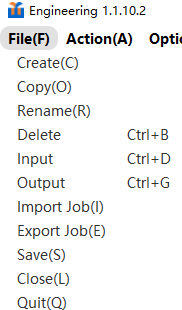
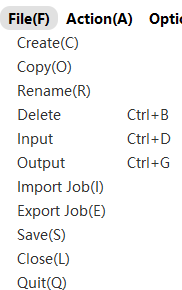
2023120701 gcc add 5 case

Changed region(s): [[0.0, 0.0, 0.7967, 1.0], [0.6868, 0.3724, 0.9615, 0.6207], [0.8242, 0.031, 1.0, 0.1552]]

diff --git a/test_dir/test_engineering.py b/test_dir/test_engineering.py
@@ -18,6 +18,7 @@ from config_ep.page.page_graphic import PageGraphic
 from config_ep.page.page_tool_size_edit import PageToolSizeEdit
 from config_ep.page.page_dcode_edit import PageDcodeEdit
 from config_ep.page.page_input_view_ascii import PageInputViewAscii
+from config_ep.page.page_engineering_file import PageFile
 
 
 @pytest.mark.input
@@ -25,6 +26,7 @@ class TestUI:
     @pytest.fixture(autouse=True)
     def setup_method(self):
         self.engineering = PageEngineering()
+        self.file = PageFile()
         self.engineering.engineering_window.set_focus()  # 激活窗口
 
     def test_ui_all(self, epcam_ui_start):
@@ -95,7 +97,7 @@ class TestUI:
         engineering_file_menu_pic = self.engineering.engineering_window.capture_as_image()  # 截图
         engineering_file_menu_pic.save(r'C:\cc\share\temp\engineering_file_menu_pic.png')  # 保存到硬盘
         img = cv2.imread(r'C:\cc\share\temp\engineering_file_menu_pic.png')
-        img_cut = img[5:315, 8:190]  # 后面的是水平方向
+        img_cut = img[25:315, 8:190]  # 后面的是水平方向
         cv2.imwrite(r"C:\cc\share\temp\engineering_file_menu_pic_cut.png", img_cut)
         cv2.waitKey(0)
         # 加载两张图片
@@ -106,14 +108,13 @@ class TestUI:
         assert rectangle_count == 0
         self.engineering.job_list_click_empty()  # 鼠标点击空白处，不影响下一个用例
 
-    def test_open_close_create_window(self, epcam_ui_start):  # 验证打开、关闭Create弹窗
-        self.engineering.engineering_window.click_input(coords=page.engineering_file_coord)  # 单击打开File菜单
-        self.engineering.engineering_window.click_input(coords=page.engineering_file_create_coord)  # 单击打开Create窗口
+    def test_open_close_create_window(self, epcam_ui_start):
+        self.file.open_create_window()
         time.sleep(0.2)
         engineering_file_create_window_pic = self.engineering.engineering_window.capture_as_image()  # 截图
         engineering_file_create_window_pic.save(r'C:\cc\share\temp\engineering_file_create_window_pic.png')  # 保存到硬盘
         img = cv2.imread(r'C:\cc\share\temp\engineering_file_create_window_pic.png')
-        img_cut = img[50:780, 380:455]  # 前纵后横
+        img_cut = img[50:780, 380:455]  # 前面纵向，后面横向
         cv2.imwrite(r"C:\cc\share\temp\engineering_file_create_window_pic_cut.png", img_cut)
         cv2.waitKey(0)
         # 加载两张图片
@@ -122,7 +123,116 @@ class TestUI:
         img_current_path = r'C:\cc\share\temp\engineering_file_create_window_pic_cut.png'
         rectangle_count = opencv_compare(img_standard_path, img_current_path)
         assert rectangle_count == 0
-        self.engineering.engineering_window.click_input(coords=page.engineering_file_create_close_coord)  # 关闭窗口
+        self.file.close_create_window('x')
+        assert self.file.create_window_is_closed()
+
+    def test_create_entity_input(self, epcam_ui_start):
+        self.file.open_create_window()
+        self.file.clear_entity_name()
+        self.file.entity_name_input()
+        engineering_file_create_entity_pic = self.engineering.engineering_window.capture_as_image()  # 截图
+        engineering_file_create_entity_pic.save(r'C:\cc\share\temp\engineering_file_create_entity_pic.png')  # 保存到硬盘
+        img = cv2.imread(r'C:\cc\share\temp\engineering_file_create_entity_pic.png')
+        img_cut = img[50:780, 460:666]  # 前面纵向，后面横向
+        cv2.imwrite(r"C:\cc\share\temp\engineering_file_create_entity_pic_cut.png", img_cut)
+        cv2.waitKey(0)
+        # 加载两张图片
+        img_standard_path = os.path.join(RunConfig.epcam_ui_standard_pic_base_path,
+                                         r'engineering\engineering_file_create_entity_pic_cut_standard.png')  # 要改图片
+        img_current_path = r'C:\cc\share\temp\engineering_file_create_entity_pic_cut.png'
+        rectangle_count = opencv_compare(img_standard_path, img_current_path)
+        assert rectangle_count == 0
+        self.file.close_create_window('x')
+
+    def test_create_entity_illegal_input(self, epcam_ui_start):
+        self.file.open_create_window()
+        self.file.clear_entity_name()
+        self.file.entity_name_illegal_input()
+        engineering_file_create_entity_illegal_pic = self.engineering.engineering_window.capture_as_image()  # 截图
+        engineering_file_create_entity_illegal_pic.save(
+            r'C:\cc\share\temp\engineering_file_create_entity_illegal_pic.png')  # 保存到硬盘
+        img = cv2.imread(r'C:\cc\share\temp\engineering_file_create_entity_illegal_pic.png')
+        img_cut = img[50:780, 460:666]  # 前面纵向，后面横向
+        cv2.imwrite(r"C:\cc\share\temp\engineering_file_create_entity_illegal_pic_cut.png", img_cut)
+        cv2.waitKey(0)
+        # 加载两张图片
+        img_standard_path = os.path.join(RunConfig.epcam_ui_standard_pic_base_path,
+                                         r'engineering\engineering_file_create_entity_illegal_pic_cut_standard.png')
+        img_current_path = r'C:\cc\share\temp\engineering_file_create_entity_illegal_pic_cut.png'
+        rectangle_count = opencv_compare(img_standard_path, img_current_path)
+        assert rectangle_count == 0
+        self.file.close_create_window('x')
+
+    def test_create_database_reset(self, epcam_ui_start):
+        self.file.open_create_window()
+        self.file.clear_entity_name()
+        self.file.database_reset()
+        engineering_file_create_database_pic = self.engineering.engineering_window.capture_as_image()  # 截图
+        engineering_file_create_database_pic.save(
+            r'C:\cc\share\temp\engineering_file_create_database_pic.png')  # 保存到硬盘
+        img = cv2.imread(r'C:\cc\share\temp\engineering_file_create_database_pic.png')
+        img_cut = img[50:780, 460:666]  # 前面纵向，后面横向
+        cv2.imwrite(r"C:\cc\share\temp\engineering_file_create_database_pic_cut.png", img_cut)
+        cv2.waitKey(0)
+        # 加载两张图片
+        img_standard_path = os.path.join(RunConfig.epcam_ui_standard_pic_base_path,
+                                         r'engineering\engineering_file_create_database_pic_cut_standard.png')
+        img_current_path = r'C:\cc\share\temp\engineering_file_create_database_pic_cut.png'
+        rectangle_count = opencv_compare(img_standard_path, img_current_path)
+        assert rectangle_count == 0
+        self.file.close_create_window('x')
+
+    def test_create_new_job_ok(self, epcam_ui_start):
+        self.engineering.entity_filter('760')
+        if self.engineering.job_first_is_opened():
+            self.engineering.close_job_first()
+        self.engineering.delete_all_jobs()
+        self.file.open_create_window()
+        self.file.clear_entity_name()
+        self.file.create_job('760', 'ok')
+        engineering_file_create_new_job_ok_pic = self.engineering.engineering_window.capture_as_image()  # 截图
+        engineering_file_create_new_job_ok_pic.save(
+            r'C:\cc\share\temp\engineering_file_create_new_job_ok_pic.png')  # 保存到硬盘
+        img = cv2.imread(r'C:\cc\share\temp\engineering_file_create_new_job_ok_pic.png')
+        img_cut = img[88:780, 25:800]  # 前面纵向，后面横向
+        cv2.imwrite(r"C:\cc\share\temp\engineering_file_create_new_job_ok_pic_cut.png", img_cut)
+        cv2.waitKey(0)
+        # 加载两张图片
+        img_standard_path = os.path.join(RunConfig.epcam_ui_standard_pic_base_path,
+                                         r'engineering\engineering_file_create_new_job_ok_pic_cut_standard.png')
+        img_current_path = r'C:\cc\share\temp\engineering_file_create_new_job_ok_pic_cut.png'
+        rectangle_count = opencv_compare(img_standard_path, img_current_path)
+        assert rectangle_count == 0
+        self.file.close_create_window('close')
+
+    def test_create_new_job_apply(self, epcam_ui_start):
+        self.engineering.entity_filter('760')
+        if self.engineering.job_first_is_opened():
+            self.engineering.close_job_first()
+        self.engineering.delete_all_jobs()
+        self.file.open_create_window()
+        self.file.clear_entity_name()
+        self.file.create_job('760', 'apply')
+        engineering_file_create_new_job_apply_pic = self.engineering.engineering_window.capture_as_image()  # 截图
+        engineering_file_create_new_job_apply_pic.save(
+            r'C:\cc\share\temp\engineering_file_create_new_job_apply_pic.png')  # 保存到硬盘
+        img = cv2.imread(r'C:\cc\share\temp\engineering_file_create_new_job_apply_pic.png')
+        img_cut = img[88:780, 25:455]  # 前面纵向，后面横向
+        cv2.imwrite(r"C:\cc\share\temp\engineering_file_create_new_job_apply_pic_cut.png", img_cut)
+        cv2.waitKey(0)
+        # 加载两张图片
+        img_standard_path = os.path.join(RunConfig.epcam_ui_standard_pic_base_path,
+                                         r'engineering\engineering_file_create_new_job_apply_pic_cut_standard.png')
+        img_current_path = r'C:\cc\share\temp\engineering_file_create_new_job_apply_pic_cut.png'
+        rectangle_count = opencv_compare(img_standard_path, img_current_path)
+        assert rectangle_count == 0
+        self.file.close_create_window('close')
+
+    # def test_create_exists_job_ok(self, epcam_ui_start):
+    #     pass
+    #
+    # def test_create_exists_job_apply(self, epcam_ui_start):
+    #     pass
 
     @pytest.mark.parametrize("job_id", GetTestData.get_job_id('Save'))
     def test_open_job(self, job_id, epcam_ui_start, download_file_compressed_entity_filter_delete_all_jobs_import):

diff --git a/config_ep/page/page_engineering_file.py b/config_ep/page/page_engineering_file.py
@@ -1,0 +1,92 @@
+import os
+import cv2
+import time
+from config_ep import page
+from config import RunConfig
+from cc.cc_method import opencv_compare
+from pywinauto.keyboard import send_keys
+
+
+class PageFile(object):
+    def __init__(self):
+        super().__init__()  # 调用父类的构造函数
+        self.engineering_window = RunConfig.driver_epcam_ui.window(**page.engineering_window_para)
+
+    def open_create_window(self):
+        self.engineering_window.click_input(coords=page.engineering_file_coord)  # 单击打开File菜单
+        self.engineering_window.click_input(coords=page.engineering_file_create_coord)  # 单击打开Create窗口
+
+    def close_create_window(self, button):
+        if button == 'x':
+            self.engineering_window.click_input(coords=page.engineering_file_create_x_coord)  # 右上角X关闭窗口
+        elif button == 'close':
+            self.engineering_window.click_input(coords=page.engineering_file_create_close_coord)  # close按钮关闭
+
+    def create_window_is_closed(self):
+        engineering_file_create_entity_pic = self.engineering_window.capture_as_image()  # 截图
+        engineering_file_create_entity_pic.save(r'C:\cc\share\temp\create_window_is_closed_pic.png')  # 保存到硬盘
+        img = cv2.imread(r'C:\cc\share\temp\create_window_is_closed_pic.png')
+        img_cut = img[55:780, 200:810]  # 前面纵向，后面横向
+        cv2.imwrite(r"C:\cc\share\temp\create_window_is_closed_pic_cut.png", img_cut)
+        cv2.waitKey(0)
+        # 加载两张图片
+        img_standard_path = os.path.join(RunConfig.epcam_ui_standard_pic_base_path,
+                                         r'engineering\create_window_is_closed_pic_cut_standard.png')  # 要改图片
+        img_current_path = r'C:\cc\share\temp\create_window_is_closed_pic_cut.png'
+        rectangle_count = opencv_compare(img_standard_path, img_current_path)
+        return rectangle_count == 0
+
+    def entity_name_input(self):
+        self.engineering_window.click_input(coords=page.engineering_file_create_entity_filter_coord)
+        send_keys('666abc-')
+        send_keys('+{_}')
+        send_keys('+{+}')
+        send_keys('{TAB}')  # Tab切走，光标影响截图
+
+    def entity_name_illegal_input(self):
+        self.engineering_window.click_input(coords=page.engineering_file_create_entity_filter_coord)
+        send_keys('ABC')
+        send_keys('!@#$')
+        send_keys('你瞅啥？')
+        send_keys('{TAB}')  # Tab切走，光标影响截图
+
+    def clear_entity_name(self):
+        self.engineering_window.click_input(coords=page.engineering_file_create_entity_filter_coord)
+        send_keys('^a')
+        send_keys('{BACK}')  # 输入框全选删除
+
+    def database_reset(self):
+        self.engineering_window.click_input(coords=page.engineering_file_create_database_filter_coord)
+        send_keys('^a')
+        send_keys('{BACK}')
+        time.sleep(0.2)
+        self.engineering_window.click_input(coords=page.engineering_file_create_database_button_coord)
+        self.engineering_window.click_input(coords=page.engineering_file_create_database_filter_coord)
+        send_keys('^a')
+        send_keys('{BACK}')
+        send_keys('666abc-')
+        send_keys('+{_}')
+        send_keys('+{+}')
+        send_keys('ABC')
+        send_keys('!@#$')
+        send_keys('你说啥？')
+        time.sleep(0.2)
+        self.engineering_window.click_input(coords=page.engineering_file_create_database_button_coord)
+        self.engineering_window.click_input(coords=page.engineering_file_create_database_filter_coord)
+        send_keys('666abc-')
+        send_keys('+{_}')
+        send_keys('+{+}')
+        send_keys('ABC')
+        send_keys('!@#$')
+        send_keys('你说啥？')
+        time.sleep(0.2)
+        self.engineering_window.click_input(coords=page.engineering_file_create_database_button_coord)
+
+    def create_job(self, job_name, button):
+        self.engineering_window.click_input(coords=page.engineering_file_create_entity_filter_coord)
+        send_keys(job_name)
+        if button == 'ok':
+            self.engineering_window.click_input(coords=page.engineering_file_create_ok_button_coord)
+        elif button == 'apply':
+            self.engineering_window.click_input(coords=page.engineering_file_create_apply_button_coord)
+        self.engineering_window.click_input(coords=page.engineering_file_create_yes_button_coord)

diff --git a/config_ep/page/__init__.py b/config_ep/page/__init__.py
@@ -22,7 +22,14 @@ engineering_job_list_in_job_empty_coord = (950, 210)
 
 engineering_file_coord = (20, 40)
 engineering_file_create_coord = (20, 65)
+engineering_file_create_x_coord = (650, 350)
 engineering_file_create_close_coord = (650, 350)
+engineering_file_create_entity_filter_coord = (580, 380)  # 郭
+engineering_file_create_database_filter_coord = (580, 412)  # 郭
+engineering_file_create_database_button_coord = (420, 412)  # 郭
+engineering_file_create_ok_button_coord = (400, 445)
+engineering_file_create_apply_button_coord = (535, 445)
+engineering_file_create_yes_button_coord = (560, 440)
 engineering_file_import_coord = (20, 210)
 engineering_file_input_coord = (20, 160)
 engineering_file_save_coord = (20, 250)
